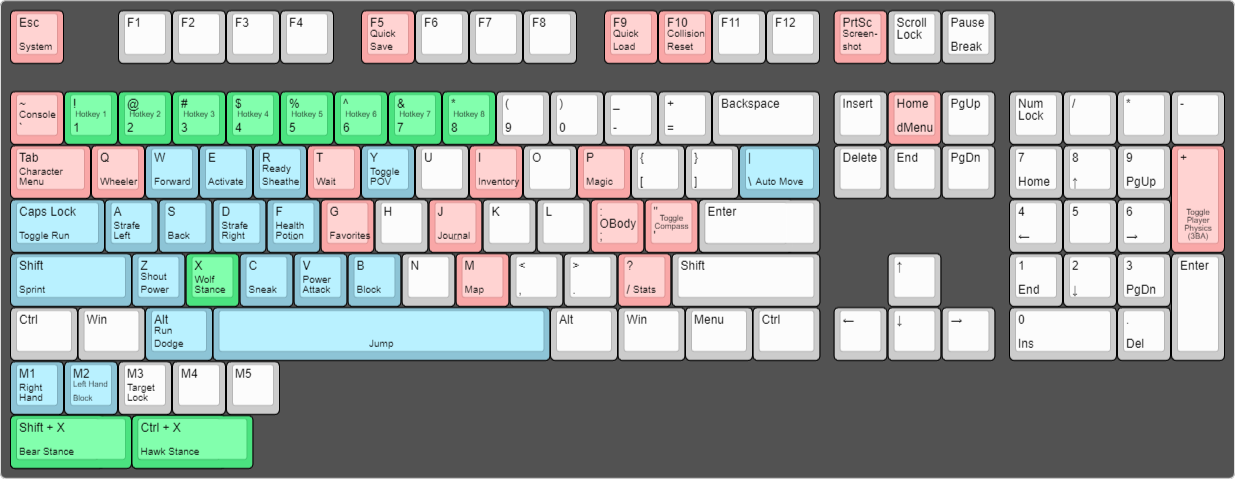
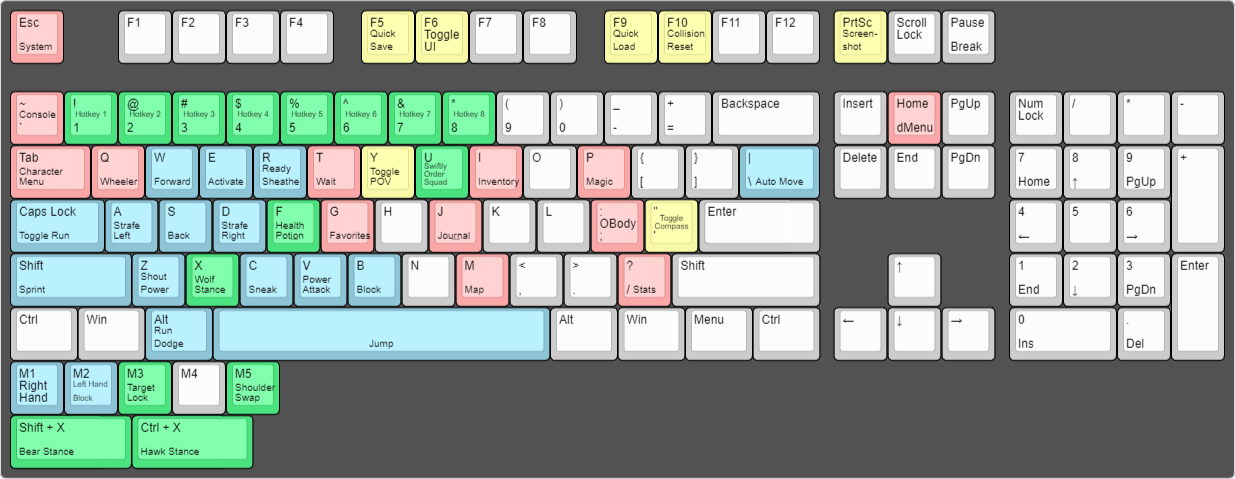
Updates
Restructuring readme
Added supporters
Updated keybinds

diff --git a/README.md b/README.md
@@ -29,6 +29,7 @@
 - [Contents](#contents)
   - [Introduction](#introduction)
     - [System Requirements](#system-requirements)
+    - [Video Guide](#video-guide)
   - [Installation](#installation)
     - [Pre-Installation](#pre-installation)
       - [Installing Microsoft Visual C++ and .NET](#installing-microsoft-visual-c-and-net)
@@ -62,10 +63,6 @@ Apostasy is a Wabbajack modlist for Skyrim SE that offers a modern, action-orien
 A full list of the mods used in this modlist can be viewed [here](https://loadorderlibrary.com/lists/Apostasy).
 
 You can find a summary of all relevant gameplay changes on the [Gameplay Guide](https://github.com/Oghma-Infinium/Apostasy/blob/main/GAMEPLAY.md) as well.
-
-If you would prefer to follow along with a video guide, you can watch the Installation Guide below.
-
-[![](https://raw.githubusercontent.com/Oghma-Infinium/Apostasy/main/images/InstallThumbnail.png)](https://youtu.be/6IJlT_H7pvk?si=OldwShLFkc1-W9Xq)
 
 [![CC BY-NC-SA 4.0][cc-by-nc-sa-shield]][cc-by-nc-sa]
 
@@ -116,6 +113,12 @@ Apostasy heavily employs [BSA](https://en.uesp.net/wiki/Skyrim_Mod:Archive_File_
 If you are struggling with issues of Wabbajack crashing during the installation process, please read the [Problems with Installation](#problems-with-installation) section of this ReadMe.
 
 </Details>
+
+### Video Guide
+
+If you would prefer to follow along with a video guide, you can watch the Installation Guide by clicking the image below.
+
+[![](https://raw.githubusercontent.com/Oghma-Infinium/Apostasy/main/images/InstallThumbnail.png)](https://youtu.be/6IJlT_H7pvk?si=OldwShLFkc1-W9Xq)
 
 ## Installation
 
@@ -551,4 +554,4 @@ Please check the [FAQ](https://github.com/Oghma-Infinium/Apostasy/blob/main/Docu
 - [Styyx](https://github.com/Styyx1) for assisting heavily in creating DLLs for the custom mods made for the list.
 - [Aelarr](https://www.nexusmods.com/skyrim/users/6843757) and Anreme for permissions to use some custom mods from The Owl Archives server.
 - Mgde12, D1Z4STR, 半蔵 内倉, Kepler, Hencoat, nostalgic.wave, EnragedHamster, unclemestor, snowpeachcherry, Charlie Kriech, Durgenage, Pacifist Fist, Don Maker, Russell Collins, Oresh, Danimals, Monko, Anehum, hildocean, The Unattested Wombat, Ola Nordman, Regista433, Jaron Scotland, King_Sheogorath, TheRyge, Shakes, highchae, Robbie, cowbellhero55, Geero, JAYDENCITO, Nehellena, Mysthey, Echo, Scott MacLeod, Exanima, Thundertube, LELUGOLELU, ravenlake, Paultinich, icaruscien, Oracraen, Lykk3, VillainousJ, Micheal Hamm, netwolff, Nico, G1Broheim, sweeper240, calcteacher, Ark for support on [patreon](https://www.patreon.com/aljoxo).
-- adorion1981, aexilkv, AlphaGhost47, ambo, Ananta, annakins, Blade, BlueBeagle, Bubborus, Chef Nicnaq, Danimals, derbaer, derkaenaz, DevZan, Don Maker, doombot117, E2J, Elendil, EnragedHamster, FalseRealism / Shingee Tingee, Felivath, Forsaken Jing, freshr, FutureWorld, Gous, Gremlin, hedich, Hencoat, Jeremy, Joey, JoeyFlow, JollyTheRancher, JXEYES, Kannon555, kanpeki, Kathie Murphy, Kiqing, Lunaros, Maelstrom, Mgde12, Mike, Monko, netwolff, orca, paulogrupp, Psyguyy, rezthe0one, Roxiie, SaddestNoddles, skylion, Soloist, Steve, Stryn, thefrogwithnoname, Thomas Brack, Tom Curran, tyler, tyrotoxism, Victoriam, Won Pham, WoWZaton, Xtremza, Zhijia, and zidan for their support via [Ko-fi](https://ko-fi.com/aljoxo).
+- adorion1981, aexilkv, AlphaGhost47, ambo, Ananta, annakins, Atlas, Blade, BlueBeagle, Bubborus, Chef Nicnaq, Danimals, derbaer, derkaenaz, DevZan, Don Maker, doombot117, E2J, Elendil, EnragedHamster, FalseRealism / Shingee Tingee, Felivath, Forsaken Jing, freshr, FutureWorld, Gous, Gremlin, hedich, Hencoat, Jeremy, Joey, JoeyFlow, JollyTheRancher, JXEYES, Kannon555, kanpeki, Kathie Murphy, Kiqing, Lunaros, Maelstrom, Mgde12, Mike, Monko, netwolff, orca, paulogrupp, Psyguyy, rezthe0one, Roxiie, SaddestNoddles, skylion, Soloist, Steve, Stryn, thefrogwithnoname, Thomas Brack, Tom Curran, tyler, tyrotoxism, Victoriam, Won Pham, WoWZaton, Xtremza, Zhijia, and zidan for their support via [Ko-fi](https://ko-fi.com/aljoxo).
